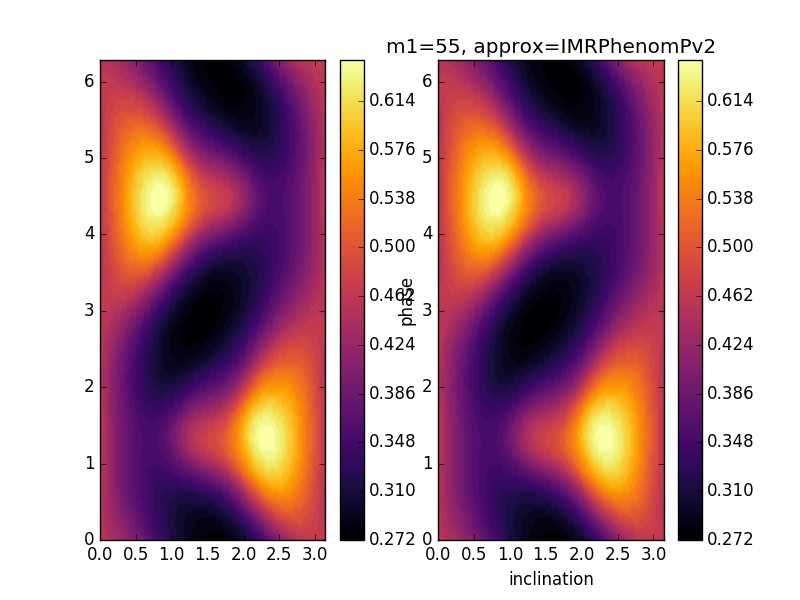
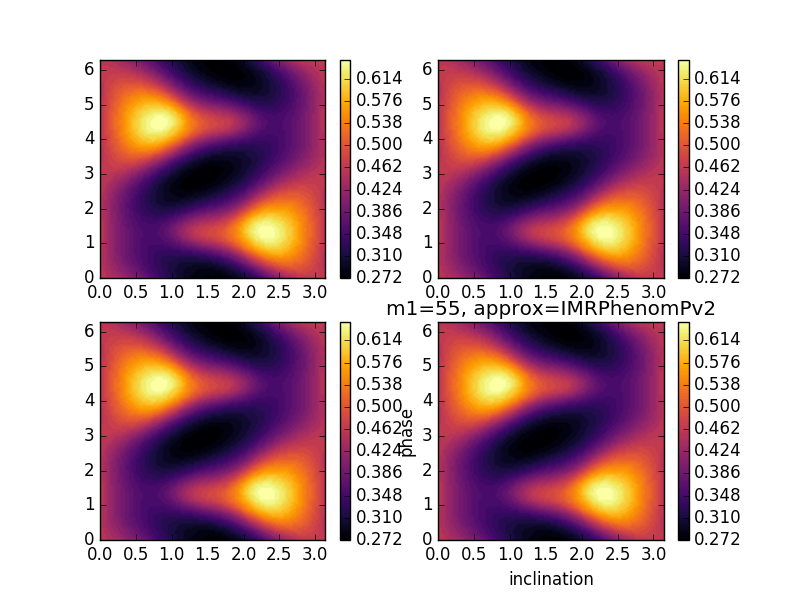
Extending

diff --git a/Matching/2D_data/multiPhase.py b/Matching/2D_data/multiPhase.py
@@ -14,10 +14,16 @@ m1=specs[0]
 m2=specs[1]
 
 plt.figure()
-plt.subplot(1,2,1)
+plt.subplot(2,2,1)
 plt.contourf(x,y,z,200,cmap="inferno")
 plt.colorbar()
-plt.subplot(1,2,2)
+plt.subplot(2,2,2)
+plt.contourf(x2,y,z,200,cmap="inferno")
+plt.colorbar()
+plt.subplot(2,2,3)
+plt.contourf(x2,y,z,200,cmap="inferno")
+plt.colorbar()
+plt.subplot(2,2,4)
 plt.contourf(x2,y,z,200,cmap="inferno")
 plt.colorbar()
 plt.ylabel("phase")
